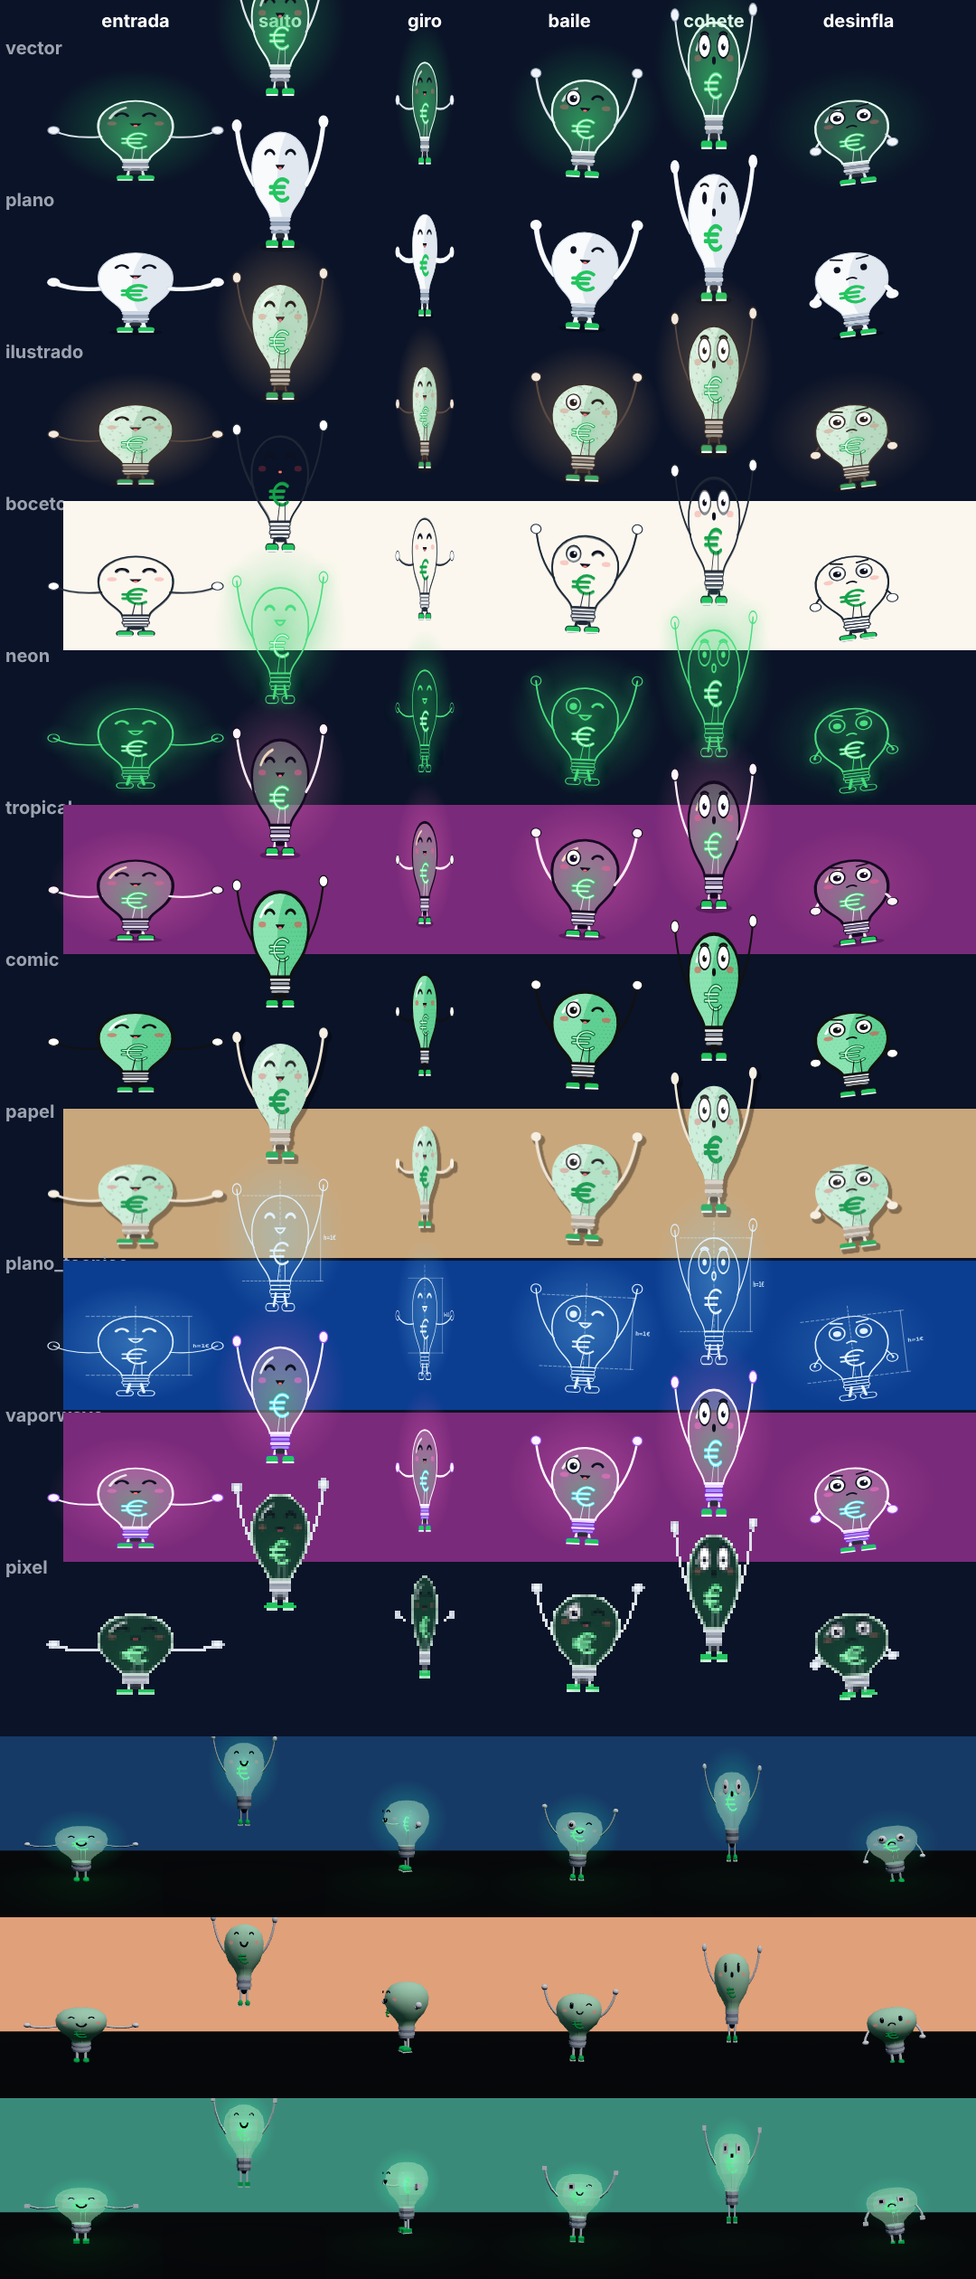
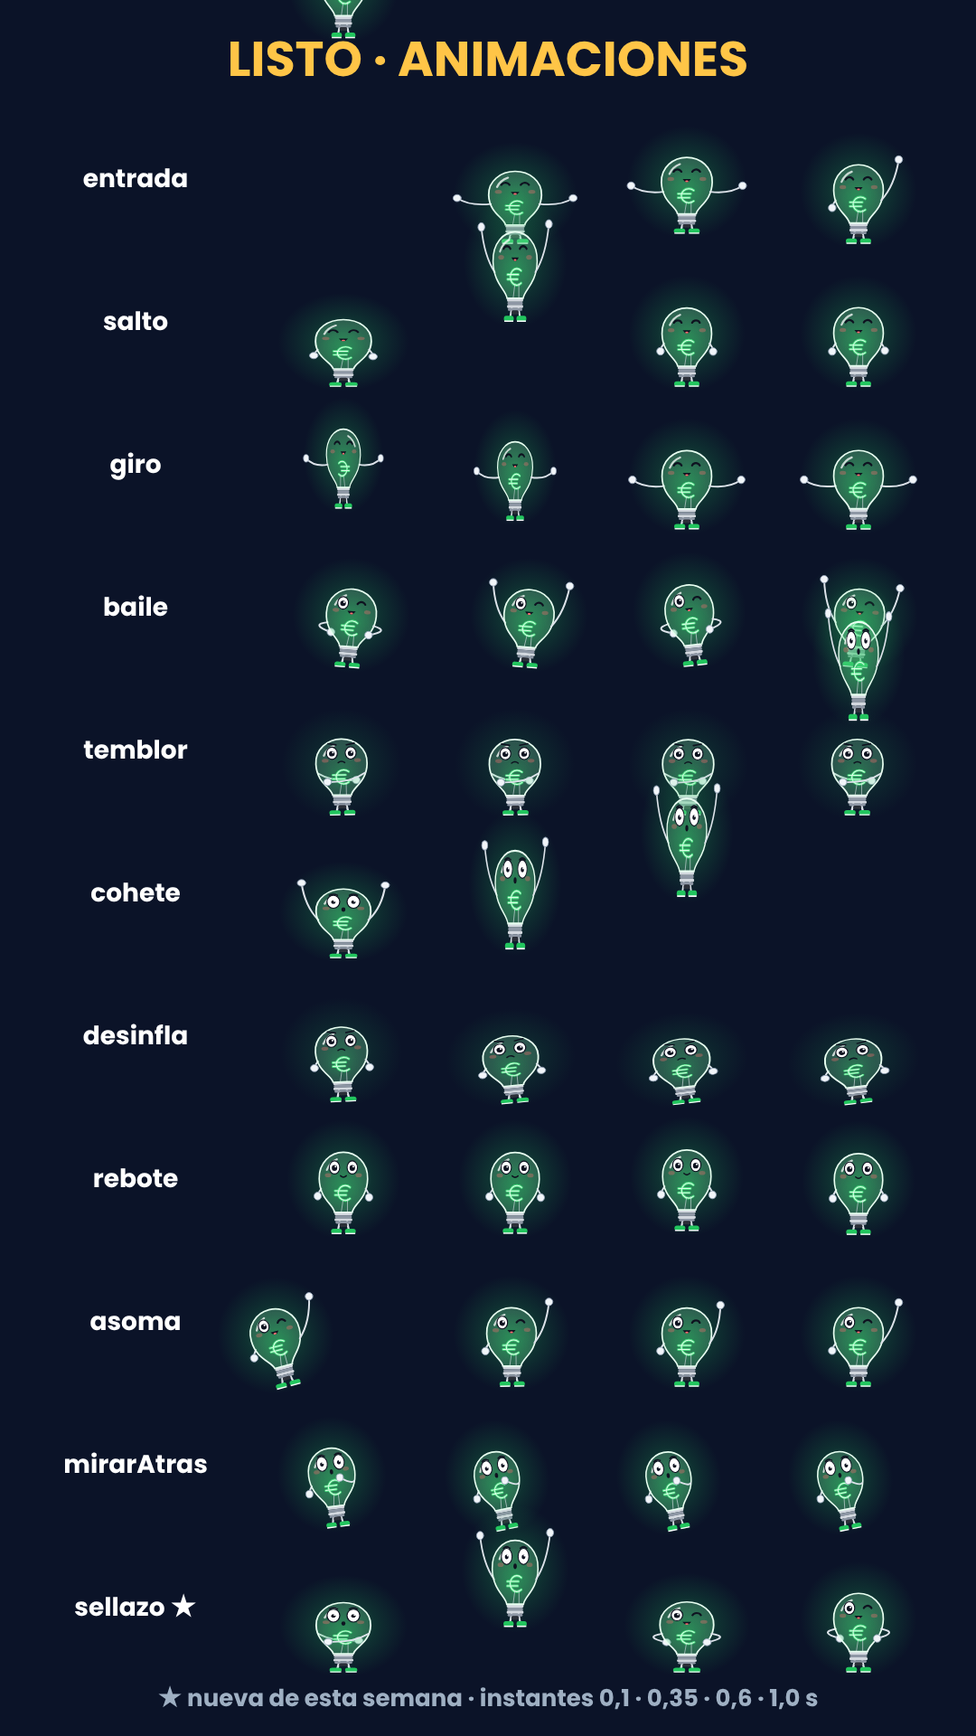
Noticias, plan, reserva, PLAYBOOK (nuevos de Listo y looks del 23-nov) y hojas de accesorios y animaciones regeneradas
Claude-Session: https://claude.ai/code/session_01Ba7WkPTRRYKHuSQwd5B9eX

diff --git a/toolkit/mascota/hoja_acc_anim.html b/toolkit/mascota/hoja_acc_anim.html
@@ -1,0 +1,21 @@
+<!doctype html><html><head><meta charset="utf-8"><script src="listo2d.js"></script>
+<style>html,body{margin:0;width:1080px;height:1920px;overflow:hidden;background:#0b1328}canvas{position:absolute;inset:0}</style></head>
+<body><canvas id="c" width="1080" height="1920"></canvas><script>
+// Hoja de Listo: ?modo=acc (todos los accesorios) o ?modo=anim (todas las animaciones en 4 instantes). Se regenera con:
+//   node ../escena3d/motor.mjs hoja_acc_anim.html --stills 0 --out <carpeta>   (con ?modo en window.MODO_HOJA)
+const X = document.getElementById('c').getContext('2d'); const MODO = window.MODO_HOJA || 'acc';
+function txt(s, x, y, px, col) { X.font = `800 ${px}px Poppins`; X.fillStyle = col; X.textAlign = 'center'; X.textBaseline = 'middle'; X.fillText(s, x, y); }
+window.DURACION = 1;
+window.renderAt = () => {
+  X.fillStyle = '#0b1328'; X.fillRect(0, 0, 1080, 1920);
+  if (MODO === 'acc') { txt('LISTO · ACCESORIOS', 540, 80, 54, '#FFC547'); const A = Listo2D.ACCESORIOS; const cols = 4;
+    A.forEach((a, i) => { const cx = 135 + (i % cols) * 270, cy = 330 + Math.floor(i / cols) * 400; X.fillStyle = 'rgba(255,255,255,0.05)'; X.beginPath(); X.roundRect(cx - 125, cy - 190, 250, 370, 20); X.fill();
+      Listo2D.dibujar(X, { x: cx, y: cy + 120, s: 0.55, t: 0.5, estilo: 'vector', acc: [a], accK: { [a]: 1 }, pose: ['billetes', 'mando', 'decimo', 'bolsa'].includes(a) ? 'saludo' : 'reposo', expr: 'feliz' });
+      txt(a + (['decimo', 'bolsa'].includes(a) ? ' ★' : ''), cx, cy + 160, 30, '#ffffff'); }); txt('★ nuevos de esta semana', 540, 1860, 28, '#9fb0c3'); }
+  else { txt('LISTO · ANIMACIONES', 540, 70, 54, '#FFC547'); const N = Listo2D.ANIMACIONES, fases = [0.1, 0.35, 0.6, 1.0];
+    N.forEach((n, i) => { const y = 200 + i * 158; txt(n + (n === 'sellazo' ? ' ★' : ''), 150, y, 28, '#ffffff');
+      fases.forEach((u, j) => { Listo2D.dibujar(X, { x: 380 + j * 190, y: y + 70, s: 0.28, t: u, estilo: 'vector', anim: n, animT: u }); }); });
+    txt('★ nueva de esta semana · instantes 0,1 · 0,35 · 0,6 · 1,0 s', 540, 1880, 26, '#9fb0c3'); }
+};
+Promise.all([document.fonts.load('800 40px Poppins')]).then(() => { window.listo = true; });
+</script></body></html>

diff --git a/content/noticias.md b/content/noticias.md
@@ -3,6 +3,10 @@
 Solo datos verificados con su fuente y fecha. Si una noticia es relevante para la audiencia (afecta a su bolsillo), se puede convertir en reel; si no, se queda aquí como contexto.
 Neutralidad: nada de opinión política ni de partidos; se cuentan datos y su efecto en el bolsillo.
 
+## 23-nov-2026 · tarea nocturna (datos usados en los reels del martes 24)
+- **[Usado en el reel 13:30 del 24-nov] Black Friday (viernes 27-nov)**: art. 20.1 de la Ley 7/1996 de Ordenación del Comercio Minorista (redacción del RDL 24/2021, Directiva Ómnibus, en vigor desde el 28-may-2022): en un anuncio de rebaja, el precio anterior es el más bajo de los 30 días previos (wwwhatsnew 5-nov-2026 https://wwwhatsnew.com/2026/11/05/descuentos-black-friday-rebaja-real-precio-anterior-30-dias/ ; CaixaBank 16-nov-2026 https://www.caixabank.com/es/esfera/content/black-friday-comprobar-descuento-ley ; OCU 28-nov-2025 https://www.ocu.org/organizacion/prensa/notas-de-prensa/2025/bf281125). Barrido de la Comisión Europea y la red CPC (23 países + Islandia y Noruega) en 314 tiendas online, publicado por Consumo el 26-mar-2026: 30 % mostraba mal los descuentos, 36 % intentaba añadir cosas a la cesta, 18 % usaba presión (falsas existencias, cuentas atrás) y más de la mitad de esas eran engañosas, 10 % añadía costes al final; Consumo multó a 7 grandes operadores con 350.000 € (https://www.dsca.gob.es/es/comunicacion/notas-prensa/uno-cada-tres-operadores-online-europeos-muestra-incorrectamente). Ejemplo de Consumo: portátil de 626,99 € subido a 759,99 € un día antes y «rebajado» 133 € (CaixaBank). OCU 2023: el 99 % de 5.476 precios tachados no era el mínimo de 30 días; ahorro anunciado medio 23 %, real −3 % (https://www.ocu.org/consumo-familia/compras-online/noticias/bf-precios-rebajados). Sin confirmar (no usar): las cifras de OCU 2025 que da Demócrata Pro (37 % sube / 35 % baja), que no cuadran con la nota de OCU.
+- **[Usado en el reel 20:30 del 24-nov] ¿Burbuja de la IA?**: Nvidia, máximo intradía de 219,99 $ el 28-oct (EFE vía Yucatán, 23-nov https://www.yucatan.com.mx/economia-2/2026/11/23/wall-street-rebota-con-fuerza-y-nvidia-se-dispara-un-30-tras-restitucion-de-huang.html); cierre del viernes 20-nov ≈ 125,5 $ (168,48 / 1,3421 y 164,03 / 1,3067, Investing y Rankia) → −43 % desde el máximo (Python); Infobae: «más de 40 %» en el último mes (https://www.infobae.com/economia/2026/11/23/las-acciones-de-nvidia-rebotan-30-despues-de-que-la-compania-anunciara-la-restitucion-de-jensen-huang-como-ceo/); Rankia: «casi la mitad de su valor desde octubre», Nasdaq −10,02 % la semana pasada (https://www.rankia.com/blog/bolsa-al-dia/7563215-nasdaq-dispara-vuelta-huang-nvidia-acabado-caida). Lunes 23 intradía: +30 % a la apertura (EFE), +34,21 % (Investing https://es.investing.com/news/stock-market-news/acciones-de-nvidia-se-disparan-34-con-el-regreso-de-huang-podria-volver-a-caer-3940693), +35,44 % a las 16:30 (Rankia); cierre: CIERRE_NVDA. CaixaBank Research (9-feb-2026, datos de fin de 2025) https://www.caixabankresearch.com/es/economia-y-mercados/mercados-financieros/innovacion-expectativas-y-vertigo-redefine-concentracion : las 7 mayores, del 20 % del S&P 500 (fin de 2022) a «más del 35 %» (fin de 2025); en el pico puntocom, las 7 mayores (Microsoft, Cisco, Intel, IBM, Oracle, HP y Texas Instruments) eran el 17,5 %; PER de las 7 mayores hoy ~40 (pasado) y ~30 (futuro) frente a 69 y 59 en 2000; CAPE 39,9 (dic-2025) vs 44,2 (dic-1999); beneficios de las 7: +30 % en los tres primeros trimestres de 2025. Nasdaq Composite: 5.048,62 el 10-mar-2000 → 1.114,11 el 9-oct-2002 (−77,9 %, Python) y no recupera el máximo hasta abril de 2015 (AP vía phys.org https://phys.org/news/2015-04-years-nasdaq-recoups-losses-dot-com.pdf ; Kiplinger https://www.kiplinger.com/article/investing/t058-c016-s002-3-lessons-for-investors-from-the-tech-bubble.html). Lo que rodea la salida de Huang no se cuenta (poco claro y con carga política).
+
 ## 23-nov-2026 · pasada de las 18:47 (lunes; EE. UU. + España por la tarde)
 Decisión: **se propone una segunda noticia hoy por impacto 5** (la regla lo permite aunque ya salió «La semana que toca tu bolsillo» a las 08:59): subida de bolsa > 3 % en un día (Nasdaq ≈ +6,9 %, S&P 500 ≈ +5 %, Dow +3,2 % a media sesión), justo después de la «semana negra» que publicamos el 21-nov. Enfoque nuevo (no repite el del 21): «Del pánico al rebote» con comparativa viernes/lunes + qué ha pasado + qué significa para ti + mito vs realidad (vender en pánico) + checklist. Carrusel en `noticias/2026-11-23_rebote_wall_street/`, enviado a Sergio a las 18:55 (sin AskUserQuestion en la sesión: responde «✅» o «❌ motivo»). Las cifras de Wall Street son de media sesión (12:30 ET) y van marcadas como provisionales; aprobada y publicada antes del cierre, así que salen tal cual (el aviso de refresco de las 22:20 se borró).
 - **[Impacto 5 · PUBLICADA 23-nov 18:59 (aprobada por Sergio: «✅» a las ~18:58 en «Noticias del 23-nov tarde»), IG https://www.instagram.com/p/DgF-RjtCcIy/ · TikTok https://www.tiktok.com/@eleurolisto/photo/7711428041368472854; post vidIQ 098f40bf-9d83-40af-80ab-37d2a1641017] Rebote histórico en Wall Street tras la vuelta de Jensen Huang a Nvidia.** Lunes 23-nov, a media sesión: Nasdaq Composite 24.178 (+1.560,27; **+6,90 %**) en el ticker de Yahoo (~12:32 ET; cuadra con el cierre del viernes 22.617,73 × 1,069) y 24.152 (+6,79 %) a las 11:31 ET (Motley Fool); Europa Press da +6,6 % al cierre europeo. S&P 500 7.254,11 (**+4,97 %**, Yahoo) / 7.256 (+5,00 %, Fool 11:31). Dow 49.684,91 (**+3,19 %**, Yahoo 12:33 ET) / +3,26 % (Fool). Nvidia 166,26 $ (**+32,45 %**, Yahoo 12:33 ET), +32,4 % (Fool), «más de un 35 %» y máximo +36,6 % (Europa Press). Huang: dimitió el 12-nov como presidente, consejero delegado y consejero (Fox Business; El Periódico de Ceuta: vuelve «once días después de su salida»), con Colette Kress como consejera delegada interina; el consejo lo restituye «con efecto inmediato» (Yahoo, Europa Press). Lo que rodea su salida (escándalo, presiones políticas, Trump) NO se cuenta: no está claro y tiene carga política. Comparaciones históricas («la mayor subida a la apertura del QQQ desde 1999», «el lunes más loco desde 2008») solo en Yahoo → no se usan. Europa al cierre (Europa Press vía Demócrata 18:08 y PressDigital 18:11; El Periódico de Ceuta): **Ibex 35 19.181,1 (+1,63 %, +308 puntos)**, máx. 19.233,5; ArcelorMittal +5,34 %, ACS +3,99 %, Indra +3,76 %, IAG +3,7 %; Repsol −2,25 %, Telefónica −1,31 %; DAX +2,15 %, CAC +1,48 %, FTSE 100 +1,3 %, FTSE MIB +0,65 %. Euro 1,0894 $ (−0,68 %); Brent 88,7 $ (−4,2 %) y WTI 80 $ (−3,95 %) al cierre europeo (Europa Press), crudo de EE. UU. −3,11 % (Yahoo) → «el petróleo baja más de un 3 %». Oro ~3.660–3.700 $ (+3,5 % a +4,4 %). Bono español a 10 años 3,864 %, prima 59 pb (Europa Press). Bitcoin ~61.700–62.000 $ (+1,6 % a +2,1 %, Yahoo/Fool). VIX 27,3 (−24 %). Fed: CME FedWatch ~96 % de subida de 0,25 en diciembre (Fox, 8:36 ET); Polymarket ~91 % (Yahoo) → «más del 90 %». Semana pasada: S&P 500 −8,6 %, Nasdaq ≈ −10 % (Fox; Bolsamanía −10,02 %). Mito vs realidad: J.P. Morgan AM («Navigating market volatility», 27-mar-2026): «The worst days in the market often occur very close to the best days» y perderse los 10 mejores días de las dos últimas décadas «cut in half» la cartera; Chase/J.P. Morgan Wealth Management (17-jul-2026): 11,3 % anual en 20 años en el S&P 500 y «if you missed just 10 of the best days, your return would have been cut by more than half». Fuentes: Yahoo Finance https://finance.yahoo.com/markets/live/stock-market-today-monday-november-23-dow-sp-500-nasdaq-nvidia-reinstates-jensen-huang-141511975.html · Motley Fool https://www.fool.com/coverage/stock-market-today/2026/11/23/stock-market-midday-nov-23-nasdaq-surges-nearly-7-as-jensen-huang-s-return-sparks-historic-ai-rebound/ · Fox Business https://www.foxbusiness.com/markets/stocks-november-23-2026 · 24/7 Wall St https://247wallst.com/investing/2026/11/23/stock-market-today-dow-sp-500-and-nasdaq-surge-as-nvidia-leads-a-major-ai-rebound/ · Demócrata (Europa Press) https://democrata.es/economia/el-ibex-35-avanza-un-1-6-y-se-aproxima-a-los-19-200-puntos-impulsado-por-el-rebote-del-nasdaq-tras-la-subida-de-nvidia · PressDigital https://www.pressdigital.es/articulo/economia/2026-11-23/6105435-ibex-35-sube-16-roza-19200-puntos-ante-impulso-nasdaq-rebote-nvidia · El Periódico de Ceuta https://elperiodicodeceuta.es/cierre-ibex-35-23-de-noviembre-de-2026 · J.P. Morgan AM https://am.jpmorgan.com/us/en/asset-management/adv/insights/retirement-insights/navigating-market-volatility-retirement-guide/ · Chase https://www.chase.com/personal/investments/learning-and-insights/article/reasons-to-stay-invested. CNN y Schaeffer's no se pudieron leer.

diff --git a/content/plan_semanal.md b/content/plan_semanal.md
@@ -10,7 +10,7 @@ Contexto de mercado (18-nov): bitcoin cerca de 64.800 $ el 15-nov tras liquidaci
 | Sáb 21 | **HECHO Y APROBADO (19-nov noche): DINERO Y LEY · ¿Hacienda ve tus criptos? (R2 llamadas entrantes, k_santa)** — antes: DINERO Y LEY · Hacienda ya ve tus criptos (DAC8): qué datos envían los exchanges, cómo tributan las ganancias (base del ahorro) y el modelo 721 | **HECHO Y APROBADO (19-nov noche): POLÉMICA · ¿Bitcoin: burbuja u oro digital? (terminal de bolsa, ElevenLabs Juanjo)** Argumentos de los dos lados con datos (volatilidad, caídas históricas del 70–80 %, ETF, oferta limitada); "¿tú de qué lado estás?" |
 | Dom 22 | **HECHO Y APROBADO (20-nov noche): "El ladrón invisible 2" (R7 3D, luz fija, ElevenLabs Mateo, IPC 4,9 %)** — antes: **SECUELA del n.º 2 del ranking (crecimiento, 19-nov): ECONOMÍA · "El ladrón invisible 2"**: con el IPC al 4,9 % (INE, oct-2026), cuánto poder de compra pierden 10.000 € parados en un año y en 5; mismo gancho ("hay un ladrón en tu casa") y look 3D de la escena que mejor retuvo, con otra cifra y final 1/2. (Antes: BOLSA · "La bolsa es un casino", pasa a reserva) — antes: **BOLSA · "La bolsa es un casino": mito o verdad** (probabilidad histórica de perder según los años invertidos en un índice mundial; fuente MSCI/estudios) | **HECHO Y APROBADO (20-nov noche): ¿Comprar o alquilar e invertir? (R1 selector de estados, primera vez; ElevenLabs Lucía; 39 % vs 29 % de idealista)** — antes: **VIVIENDA + INVERSIÓN · ¿Comprar casa o alquilar e invertir la diferencia?** Ejemplo con supuestos claros; el matiz que nadie cuenta (apalancamiento de la hipoteca, gastos, liquidez) |
 | Lun 23 | **HECHO (22-nov noche, pendiente de aprobar): "El Gordo no son 400.000 €" (R9 cómic, ElevenLabs Juanjo; parte 1)** — antes: **CULTURA POP + DINERO Y LEY (crecimiento): "Lotería de Navidad: ¿cuánto te toca de verdad?"** (probabilidad del Gordo, premio por décimo y lo que se queda Hacienda; verificar en SELAE y la AEAT) — antes: **CRIPTO · Stablecoins explicadas**: qué son, por qué no siempre valen 1 $ (casos de pérdida de paridad) y qué cambia con MiCA | **HECHO (22-nov noche, pendiente de aprobar): "Plan de pensiones: ¿chollo o trampa?" (R3 plano de corte, ElevenLabs Mateo)** — antes: **POLÉMICA · Plan de pensiones privado: ¿ventaja fiscal o timo?** |
-| Mar 24 | **ECONOMÍA · Black Friday: 3 trampas de precio** (look nuevo: collage de tiques) | **BOLSA · ¿Burbuja de la IA?** Concentración del S&P 500 en pocas empresas, comparación con la burbuja puntocom (datos y fuentes); sin recomendar valores |
+| Mar 24 | **HECHO (23-nov noche, pendiente de aprobar): «Black Friday: ese −40 % puede ser mentira» (R10 papel recortado, primera vez; voz local v1)** — antes: ECONOMÍA · Black Friday: 3 trampas de precio (look nuevo: collage de tiques) | **HECHO (23-nov noche, pendiente de aprobar): «¿Burbuja de la IA?» tras la montaña rusa de Nvidia (terminal + montaña rusa; ElevenLabs Carmen)** — antes: BOLSA · ¿Burbuja de la IA? |
 | Mié 25 | **SECUELA del n.º 3 del ranking: "50/30/20 con el SMI de 2027 (1.286 €)"** en 3D (otro decorado), con la nómina neta verificada — antes: **INVERSIÓN · Interés compuesto con datos reales** (MSCI World a 20–30 años, histórico, no garantizado) | **POLÉMICA · FIRE y la regla del 4 %: ¿jubilarse a los 40 es posible en España?** |
 | Jue 26 | **NÓMINA (temporada, mucha búsqueda): "La paga extra de diciembre: cuánto te quitan y qué hacer con ella"** — antes: **CRIPTO · ETF de bitcoin vs comprar bitcoin directamente**: diferencias de custodia, comisiones y fiscalidad en España (sin nombrar productos) | **ORO vs BITCOIN vs BOLSA** en las últimas crisis (datos) |
 
@@ -26,3 +26,5 @@ Ojo: varios días del plan tienen los dos reels de inversión; la regla del PLAY
 **Cambio de Sergio (19-nov, noche): "el objetivo es hacer crecer la cuenta, me da igual el cómo; si hace falta repetir temáticas para tener retención, hazlo".** El plan de arriba ya mete 2 secuelas de los ganadores del ranking (inflación 3D y 50/30/20 3D) y 2 temas de temporada con mucha búsqueda (Lotería de Navidad, paga extra); los temas que salen pasan a reserva. La tarea nocturna lo ajusta cada noche con `content/ranking.md`. Cada día sigue habiendo al menos 1 reel de inversión (las secuelas van a las 13:30).
 
 **Nota del 22-nov (noche):** el reel de bitcoin del sábado 21 no se publicó (está en reserva, con cifras a rehacer). La Lotería tiene parte 2 prometida («muy pronto»): meterla en un 13:30 de esta semana (p. ej. el jueves 26, en lugar de la paga extra, o el viernes). Creative Claw sin créditos (2): las voces premium salen de ElevenLabs (quedan ~5.100 caracteres hasta el reinicio).
+
+**Nota del 23-nov (noche):** la Lotería parte 1 hizo 0 vistas en TikTok en 8,5 h (casi seguro filtro de juegos de azar): si se hace la parte 2, que sea con el ángulo de Hacienda y sin décimos ni bombos en el primer fotograma. Las polémicas de inversión van muy bien en TikTok (≈ 700 vistas): mantener 1 al día a las 20:30. ElevenLabs: 5.146 caracteres hasta el 18-dic (≈ 10 reels de 20:30); Creative Claw sin créditos (2).

diff --git a/PLAYBOOK.md b/PLAYBOOK.md
@@ -167,6 +167,7 @@ Capturas en `content/referencias/estilos/` (míralas con Read antes de elegir). 
 - **Animaciones de Listo — valen en TODOS los estilos** (2D: `anim:` + `animT:` en `Listo2D.dibujar`, también en `Listo2D.pixel`; 3D: `L.actualizar(t, { anim, animT })` en toon, plastilina y low-poly, donde el giro es una vuelta real; hoja con todos los estilos × animaciones: `content/marca/listo_animaciones.png`): `entrada` (cae del cielo y aterriza aplastándose), `salto` (con anticipación), `giro` (vuelta completa), `baile`, `temblor` (miedo), `cohete` (despega: la bolsa sube), `desinfla` (pierde), `rebote` (espera), `asoma` (entra de lado). Todas con squash & stretch (`sqx`, `sqy`, `rot`, `dx`, `dy` también a mano). En cada reel, al menos 2 animaciones de Listo además de los cambios de pose (p. ej. `entrada` en el gancho y `cohete` o `desinfla` en la cifra clave) y, cuando encaje, un accesorio que entra (`accK`).
 - **Animaciones y accesorios nuevos de vez en cuando (Sergio, 18-nov: "de vez en cuando ves creando más animaciones y más accesorios nuevos para Listo")**: cada semana, al menos 1 animación nueva y 1 accesorio nuevo, pensados para un tema que toque esa semana (p. ej. paraguas para una caída de bolsa, casco de obra para la vivienda, calculadora en la mano para la renta, cohete propio para un récord). Se añaden en 2D, pixel y 3D, respetando las reglas de Listo (manos redondas sin dedos, € y casquillo visibles, sin cambios de luz), se apuntan en las listas de este PLAYBOOK y se regeneran las hojas `content/marca/listo_animaciones.png` y `content/marca/listo_accesorios.png`. Al enviar los reels, di en una línea qué animación o accesorio es nuevo.
 - **Nuevo del 22-nov**: accesorio **`decimo`** (décimo de lotería genérico, sin logos; la mano redonda lo sujeta), en `listo2d.js` (2D; pixel y 3D, pendientes). Look **R9 cómic** estrenado en un reel (plantilla `reels/2026-11-23_1330_loteria_gordo/escena.html`: página de papel fija, viñetas pastel que entran con empuje lateral, cartela de narrador para los subtítulos, Listo 'comic' rompiendo la viñeta). Falta la animación nueva de esta semana.
+- **Nuevo del 23-nov**: animación **`sellazo`** (salta y cae como un sello de goma, se aplasta y rebota: para sellos «FALSO», «MISMO PRECIO»…) y accesorio **`bolsa`** (bolsa de la compra genérica de papel, roja con «%», sin logos), los dos en `listo2d.js` (2D; pixel y 3D, pendientes). Look **R10 papel recortado / collage de tiques** estrenado en un reel (plantilla `reels/2026-11-24_1330_black_friday_trampas/escena.html`: mesa de kraft fija, letras de «nota de rescate», etiquetas colgantes, pegatinas, sellos de goma, cinta de carrocero, tique que se imprime y subtítulos en tira de tique con fluorescente). Variante nueva del **terminal de bolsa: «montaña rusa»** (la cotización convertida en raíles con traviesas y pilares y Listo neón en una vagoneta; plantilla `reels/2026-11-24_2030_burbuja_ia/escena.html`).
 - **Nuevos del 19-nov**: accesorio **`mando`** (mando de consola genérico, sin marca; la mano redonda lo sujeta) y animación **`mirarAtras`** (gira hacia atrás ~1,3 s y vuelve: "a toro pasado", retrovisor, "en 2013…"), ambos en `listo2d.js`. Look **R8b neón tropical de noche** (variante del R8 para las partes 2 y siguientes de un especial).
 - Las transiciones entre fondos muy distintos, con empuje lateral de ≥ 1 s (con 0,6 s había saltos de brillo de 12; con 1,2 s, 6).
 

diff --git a/content/reserva.md b/content/reserva.md
@@ -29,3 +29,5 @@
 - **[22-nov] ¿Bitcoin: burbuja u oro digital? — APROBADO pero NO PUBLICADO** (terminal de bolsa + Listo 'neon', ElevenLabs Juanjo; `reels/2026-11-21_2030_bitcoin_burbuja_u_oro/`): iba el sábado 21 a las 20:30 y no salió (no está ni en IG ni en TikTok). Las cifras (62.448 $ del 18-nov, −50 % desde el máximo) están caducadas: antes de usarlo, rehacer el precio y el % con dos fuentes del día y pedir a Sergio la nueva fecha. uploadId con portada fa8d5548-cc21-43bc-ae00-0ef1b9a0cc0a · sin portada 74a765ed-e0d1-42ed-86b8-e1042126ced2.
 - **[22-nov] Lotería de Navidad, parte 2 (prometida en el reel del lun 23: «parte 2 muy pronto»)**: «¿Y si en vez del décimo inviertes los 20 €?» (20 € al año durante X años, hipotético y sin garantías) o «Décimo compartido: cómo cobrar sin que Hacienda te lo cobre dos veces» (viral de @enplata.tv). Hacerla esta semana (antes del 22-dic), mejor si la parte 1 funciona.
 
+  - **[23-nov]** Ojo: la parte 1 hizo 0 vistas en TikTok (filtro de juegos de azar). La parte 2, con el ángulo de Hacienda/inversión y sin décimos, bombos ni la palabra «lotería» en el primer fotograma (o solo para IG si Sergio lo prefiere).
+- **[23-nov] Ideas nuevas**: «Black Friday parte 2: cómo comprobar si un chollo es real en 30 segundos» (historial de precios, el tachado = mínimo de 30 días, cómo reclamar a Consumo) para el jueves 26 o el viernes 27 si el de las 13:30 del martes funciona; «¿Qué hacer si la bolsa cae un 10 %?» (educativo, sin recomendar: datos de caídas y recuperaciones del S&P 500) como secuela del de la burbuja de la IA si engancha en TikTok. El reel de bitcoin aparcado usa el mismo look terminal que el de la IA: si se rescata, que pasen al menos 3 reels.
